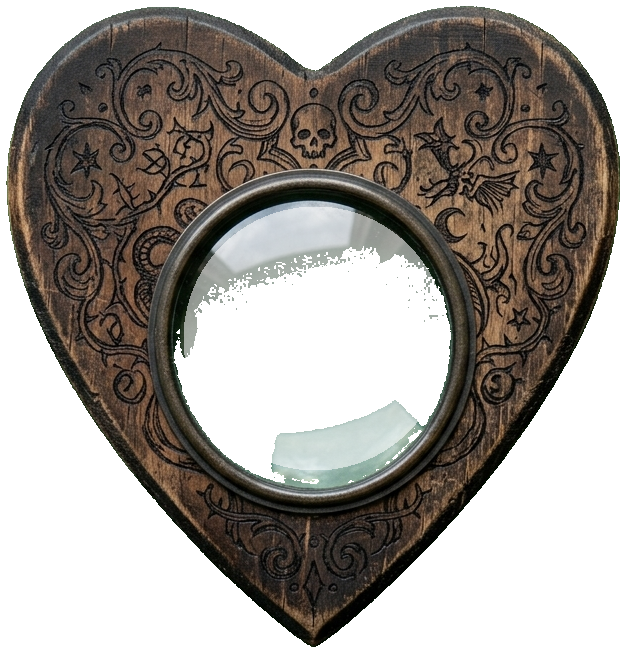
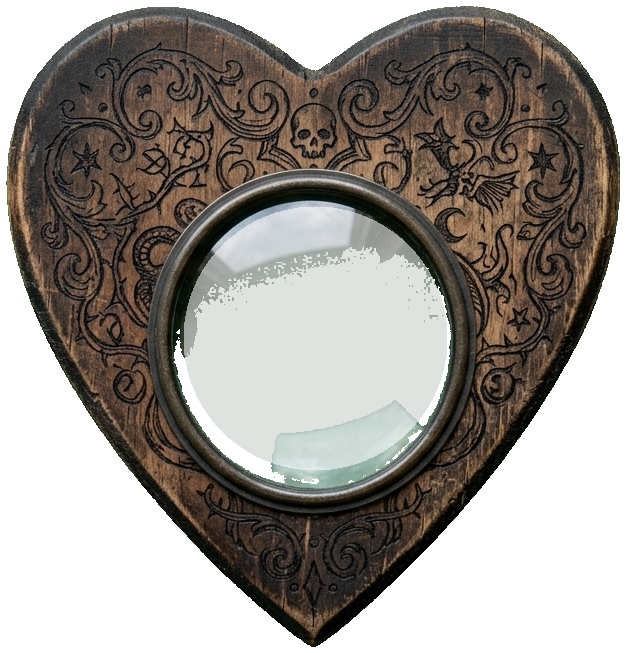
Seance board v2 (DESIGN 30): full board, wake-up dance, dead-still rest, tinted lens
DM notes applied:
- The heart never moves at rest - tremble and rotation wobble are gated
  to living phases only; start and end are frozen (verified: 60s of
  byte-identical transforms after the phrase).
- A phrase from idle WAKES UP: one very slow first stir (2.6s), then a
  circling dance, and only then the first mark.
- The lens is tinted glass now - the chroma-keyed remnants read as
  "broken green glass", so the processing paints the glass body a
  uniform faint sage under the kept reflections.

And the full board per the module: digits 1-0 on an inner bottom arc,
printed HELLO (top-center), YES / NO (flanking high), GOODBYE
(low-center) - all widget-drawn SVG with exact polar targets. A phrase
word that IS a printed word lands on it as a single stop instead of
being spelled. Verified: "HELLO 13 XE NO" plays as pre-still -> wake ->
dance -> HELLO whole -> 1 -> 3 -> X -> E -> NO whole -> frozen rest,
with the rest position matching computed coordinates to the pixel.

Ledgered per DM: spin the seance board off as a standalone module later.

Changed region(s): [[0.2732, 0.3675, 0.7284, 0.7044]]

diff --git a/scripts/seance.js b/scripts/seance.js
@@ -1,67 +1,106 @@
 import { MODULE_ID } from "./preset.js";
 import { isPhoneClient, isDisplayClient } from "./shell.js";
 
-// §30 Séance board (DM-idea 2026-07-26, for a Crooked Moon game — "might be useful for others").
-// A spirit-board overlay on the TV: the DM types a phrase on the panel; the planchette drifts
-// letter to letter — slow, a bit jerky — resting 2s on each, then returns to the center and
-// waits. Layering (the decision that makes it work): the TABLE ART carries no letters at all
-// (image models butcher radial text, and baked letters have unknowable coordinates) — the
-// widget draws the letter ring itself as SVG, so every glyph's angle is exact and the
-// planchette's see-through lens (chroma-keyed + punched in tools/process-planchette.ps1)
-// lands dead-on with the letter visible THROUGH the glass.
+// §30 Séance board (DM-idea 2026-07-26, for a Crooked Moon game — "might be useful for others";
+// flagged for a standalone-module spin-off later). A spirit-board overlay on the TV: the DM
+// types a phrase on the panel; the planchette wakes slowly, circles once (the little dance),
+// then drifts mark to mark — slow, a bit jerky — resting 2s on each, and returns to a DEAD
+// STILL center when done (the heart never moves at rest, DM 2026-07-27).
 //
-// Visibility: the display client and the DM's own (non-phone) client — table theatre, not a
-// phone feature. State rides fxActive.seance (effects.js syncFx calls seanceSync), so the TV
-// re-mounts after a reload mid-scene; phrases are fxOneShot broadcasts (id "seancePhrase").
+// The board (per the module's layout): A–Z on the outer ring, digits 1–0 on an inner bottom
+// arc, and four printed words — HELLO top-center, YES/NO flanking high, GOODBYE low-center.
+// A phrase word that IS one of the printed words lands on it as a single stop instead of
+// being spelled ("the spirits point").
+//
+// Layering (the decision that makes it work): the table art carries no glyphs at all — the
+// widget draws every mark as SVG, so every target's polar position is exact, and the
+// planchette's lens (chroma-keyed to tinted glass; tools/process-planchette.ps1) lands with
+// the mark visible THROUGH it. State rides fxActive.seance (effects.js syncFx → seanceSync);
+// phrases are fxOneShot broadcasts (id "seancePhrase").
 
-const BOARD_FRAC = 0.72;      // board size as a fraction of the smaller viewport side
-const LETTER_R = 0.60;        // letter ring radius as a fraction of half the board
+const LETTER_R = 0.60;        // outer ring radius as a fraction of half the board
+const DIGIT_R = 0.42;         // digits arc radius
 const PLANCHETTE_FRAC = 0.30; // planchette width as a fraction of the board
-// Lens center within the processed sprite (tools/process-planchette.ps1 output: 626x653,
-// lens at 315,338) — the point that must land on a glyph.
+// Lens center within the processed sprite (626x653, lens at 315,338) — the landing point.
 const LENS_X = 315 / 626, LENS_Y = 338 / 653;
 const HOLD_MS = 2000;
 
-let root = null;      // the overlay element, or null
-let planch = null;    // the planchette <img>
-let raf = 0;
-let queue = [];       // remaining letters of the current phrase (uppercase, " " = pause)
+const LETTERS = "ABCDEFGHIJKLMNOPQRSTUVWXYZ";
+const DIGITS = "1234567890";
+const D2R = Math.PI / 180;
+// Printed words — polar positions in board units (angle: 0=right, 90°=down, -90°=up).
+const WORDS = {
+  HELLO: { a: -90 * D2R, r: 0.36 },
+  YES: { a: -145 * D2R, r: 0.36 },
+  NO: { a: -35 * D2R, r: 0.36 },
+  GOODBYE: { a: 90 * D2R, r: 0.30 }
+};
+
+let root = null, planch = null, raf = 0;
+let queue = [];       // token objects: {ch} | {word} | {space} | {dance:1|2}
 let phase = "rest";   // rest | travel | hold | pause
-let phaseT = 0;       // ms elapsed in the current phase
-let lastT = 0;
-// Position in board polar coords: angle (rad) + radius (fraction of letter-ring radius).
+let phaseT = 0, lastT = 0;
+// Position in board polar coords: angle (rad) + radius in LETTER-ring units (1 = the A–Z ring).
 let cur = { a: -Math.PI / 2, r: 0.22 };
-let from = { ...cur };
-let to = { ...cur };
+let from = { ...cur }, to = { ...cur };
 let travelMs = 1200;
+let toIsRest = false;
+let lastKey = null;   // the mark we're currently holding on (double-letter detection)
 
 function eligible() {
   return !isPhoneClient() && (isDisplayClient() || game.user?.isGM);
 }
 
-const LETTERS = "ABCDEFGHIJKLMNOPQRSTUVWXYZ";
 function letterAngle(ch) {
   const i = LETTERS.indexOf(ch);
   return i < 0 ? null : -Math.PI / 2 + (i / 26) * Math.PI * 2; // A at the top, clockwise
 }
+function digitAngle(ch) {
+  const i = DIGITS.indexOf(ch);
+  return i < 0 ? null : (140 - i * (100 / 9)) * D2R; // 1 at bottom-left … 0 at bottom-right
+}
+// Target for a token, in {a, r-in-letter-ring-units} — null if the board has no such mark.
+function targetFor(tok) {
+  if (tok.word) { const w = WORDS[tok.word]; return { a: w.a, r: w.r / LETTER_R, key: tok.word }; }
+  if (tok.ch) {
+    const la = letterAngle(tok.ch);
+    if (la != null) return { a: la, r: 1, key: tok.ch };
+    const da = digitAngle(tok.ch);
+    if (da != null) return { a: da, r: DIGIT_R / LETTER_R, key: tok.ch };
+  }
+  return null;
+}
 
-// Deterministic per-index jitter so the ring looks hand-scratched but never reflows.
+// Deterministic per-index jitter so the marks look hand-scratched but never reflow.
 function jig(i, mag) { return Math.sin(i * 12.9898) * mag; }
 
 function boardHTML() {
   const glyphs = [...LETTERS].map((ch, i) => {
     const a = letterAngle(ch);
-    const deg = (a * 180) / Math.PI + 90 + jig(i, 5); // baseline follows the circle
+    const deg = (a / D2R) + 90 + jig(i, 5);
     const x = 50 + Math.cos(a) * LETTER_R * 50;
     const y = 50 + Math.sin(a) * LETTER_R * 50;
-    const size = 4.4 + jig(i + 7, 0.35);
-    return `<text x="${x}" y="${y}" transform="rotate(${deg} ${x} ${y})" font-size="${size}"
+    return `<text x="${x}" y="${y}" transform="rotate(${deg} ${x} ${y})" font-size="${4.4 + jig(i + 7, 0.35)}"
       text-anchor="middle" dominant-baseline="central">${ch}</text>`;
+  }).join("");
+  const digits = [...DIGITS].map((ch, i) => {
+    const a = digitAngle(ch);
+    const deg = (a / D2R) - 90 + jig(i + 31, 4); // upright-facing-center along the bottom arc
+    const x = 50 + Math.cos(a) * DIGIT_R * 50;
+    const y = 50 + Math.sin(a) * DIGIT_R * 50;
+    return `<text x="${x}" y="${y}" transform="rotate(${deg} ${x} ${y})" font-size="${3.5 + jig(i + 13, 0.25)}"
+      text-anchor="middle" dominant-baseline="central">${ch}</text>`;
+  }).join("");
+  const words = Object.entries(WORDS).map(([w, p], i) => {
+    const x = 50 + Math.cos(p.a) * p.r * 50;
+    const y = 50 + Math.sin(p.a) * p.r * 50;
+    return `<text x="${x}" y="${y}" transform="rotate(${jig(i + 51, 3)} ${x} ${y})" font-size="3.1"
+      letter-spacing="0.35" text-anchor="middle" dominant-baseline="central">${w}</text>`;
   }).join("");
   return `
     <div class="mc-seance-board">
       <img class="mc-seance-table" src="modules/${MODULE_ID}/art/seance-table.jpg" alt="">
-      <svg class="mc-seance-letters" viewBox="0 0 100 100">${glyphs}</svg>
+      <svg class="mc-seance-letters" viewBox="0 0 100 100">${glyphs}${digits}${words}</svg>
       <img class="mc-seance-planchette" src="modules/${MODULE_ID}/art/planchette.png" alt="">
     </div>`;
 }
@@ -75,7 +114,7 @@ export function seanceSync(on) {
     document.body.appendChild(root);
     planch = root.querySelector(".mc-seance-planchette");
     cur = { a: -Math.PI / 2, r: 0.22 }; from = { ...cur }; to = { ...cur };
-    phase = "rest"; queue = [];
+    phase = "rest"; queue = []; lastKey = null;
     lastT = performance.now();
     cancelAnimationFrame(raf);
     raf = requestAnimationFrame(tick);
@@ -88,45 +127,65 @@ export function seanceSync(on) {
 
 export function seancePhrase(text) {
   if (!root) return; // board not up (or this client doesn't show it)
-  const clean = String(text ?? "").toUpperCase().replace(/[^A-Z ]/g, "").replace(/ +/g, " ").trim().slice(0, 120);
+  const clean = String(text ?? "").toUpperCase().replace(/[^A-Z0-9 ]/g, "").replace(/ +/g, " ").trim().slice(0, 120);
   if (!clean) return;
-  queue.push(...clean.split(""));
-  if (phase === "rest") nextTarget();
+  const wasIdle = phase === "rest" && !queue.length;
+  for (const word of clean.split(" ")) {
+    if (WORDS[word]) queue.push({ word });
+    else for (const ch of word) queue.push({ ch });
+    queue.push({ space: true });
+  }
+  queue.pop(); // no trailing beat
+  if (wasIdle) {
+    // The wake-up (DM 2026-07-27): from dead-still, start SLOWLY, then a circling dance,
+    // and only then head for the first mark.
+    queue.unshift({ dance: 1 }, { dance: 2 });
+    nextTarget();
+  } else if (phase === "rest") nextTarget();
 }
 
 function nextTarget() {
-  const ch = queue.shift();
-  if (ch === undefined) {
-    // phrase done — drift home and wait
+  const tok = queue.shift();
+  if (tok === undefined) {
     from = { ...cur }; to = { a: cur.a, r: 0.22 };
-    travelMs = 1600; phase = "travel"; phaseT = 0; toIsRest = true;
+    travelMs = 1800; phase = "travel"; phaseT = 0; toIsRest = true; lastKey = null;
     return;
   }
   toIsRest = false;
-  if (ch === " ") {
-    // a beat between words: wander toward the middle
+  if (tok.dance === 1) { // slow first stir — barely more than a shiver, gathering itself
     from = { ...cur };
-    to = { a: cur.a + 0.6, r: 0.45 };
-    travelMs = 1100; phase = "pause"; phaseT = 0;
+    to = { a: cur.a + 1.1, r: 0.45 };
+    travelMs = 2600; phase = "pause"; phaseT = 0;
     return;
   }
-  const a = letterAngle(ch);
-  // Same letter again (double letters): swing away first so the return reads as a second tap.
-  const dSame = Math.abs(angDiff(cur.a, a));
-  if (cur.r > 0.9 && dSame < 0.05) {
-    queue.unshift(ch);
+  if (tok.dance === 2) { // the little circle before business begins
     from = { ...cur };
-    to = { a: cur.a + (Math.random() < 0.5 ? 0.45 : -0.45), r: 0.8 };
-    travelMs = 900; phase = "pause"; phaseT = 0;
+    to = { a: cur.a + 2.4, r: 0.68 };
+    travelMs = 1600; phase = "pause"; phaseT = 0;
+    return;
+  }
+  if (tok.space) {
+    from = { ...cur };
+    to = { a: cur.a + 0.6, r: 0.45 };
+    travelMs = 1100; phase = "pause"; phaseT = 0; lastKey = null;
+    return;
+  }
+  const t = targetFor(tok);
+  if (!t) return nextTarget(); // mark not on the board — skip
+  // Same mark again (double letters): swing away first so the return reads as a second tap.
+  if (lastKey === t.key) {
+    queue.unshift(tok);
+    from = { ...cur };
+    to = { a: cur.a + (Math.random() < 0.5 ? 0.45 : -0.45), r: Math.max(0.3, cur.r - 0.2) };
+    travelMs = 900; phase = "pause"; phaseT = 0; lastKey = null;
     return;
   }
   from = { ...cur };
-  to = { a, r: 1 };
-  const dist = Math.abs(angDiff(from.a, a)) + Math.abs(to.r - from.r);
+  to = { a: t.a, r: t.r };
+  const dist = Math.abs(angDiff(from.a, t.a)) + Math.abs(t.r - from.r);
   travelMs = 900 + Math.min(1, dist / Math.PI) * 1700; // farther = slower, never a snap
-  phase = "travel"; phaseT = 0;
+  phase = "travel"; phaseT = 0; lastKey = t.key;
 }
-let toIsRest = false;
 
 function angDiff(a, b) {
   let d = (b - a) % (Math.PI * 2);
@@ -150,7 +209,7 @@ function tick(t) {
     if (phaseT >= travelMs) {
       cur = { a: to.a, r: to.r };
       if (phase === "pause") { phase = "travel"; nextTarget(); }
-      else if (toIsRest) phase = "rest";
+      else if (toIsRest) phase = "rest"; // …and the heart goes STILL
       else { phase = "hold"; phaseT = 0; }
     }
   } else if (phase === "hold") {
@@ -165,15 +224,16 @@ function place(t = 0) {
   const S = board.clientWidth;
   if (!S) return;
   const R = (S / 2) * LETTER_R;
-  // Idle tremble — the planchette is never perfectly still.
-  const wob = phase === "hold" || phase === "rest" ? 0.0035 : 0.006;
+  // Tremble only while ALIVE — at rest the heart is dead still (DM 2026-07-27).
+  const resting = phase === "rest";
+  const wob = resting ? 0 : phase === "hold" ? 0.0035 : 0.006;
   const nx = Math.sin(t / 97) * S * wob, ny = Math.cos(t / 83) * S * wob;
   const px = S / 2 + Math.cos(cur.a) * R * cur.r + nx;
   const py = S / 2 + Math.sin(cur.a) * R * cur.r + ny;
   const w = S * PLANCHETTE_FRAC;
   const h = w * (653 / 626);
-  // The lens lands on the point; the tip points outward (sprite's tip is +y/down).
-  const rotDeg = (cur.a * 180) / Math.PI - 90 + Math.sin(t / 151) * 2.5;
+  // The lens lands on the mark; the tip points outward (sprite's tip is +y/down).
+  const rotDeg = (cur.a / D2R) - 90 + (resting ? 0 : Math.sin(t / 151) * 2.5);
   planch.style.width = `${w}px`;
   planch.style.transformOrigin = `${LENS_X * 100}% ${LENS_Y * 100}%`;
   planch.style.transform = `translate(${px - w * LENS_X}px, ${py - h * LENS_Y}px) rotate(${rotDeg}deg)`;

diff --git a/scripts/dm-panel.js b/scripts/dm-panel.js
@@ -332,7 +332,7 @@ function seanceBody() {
   return `
     <button class="mc-fx-btn ${on ? "mc-on" : ""}" data-fx="seance" title="${FX_DEFS.seance.hint}" style="width:100%"><i class="fas ${FX_DEFS.seance.icon}"></i><span>Spirit Board</span></button>
     <div class="mc-fx-voicerow">
-      <input type="text" class="mc-fx-voice" data-seance-text maxlength="120" placeholder="What the spirits say… (letters only)" value="${foundry.utils.escapeHTML(seanceDraft)}" ${on ? "" : "disabled"}>
+      <input type="text" class="mc-fx-voice" data-seance-text maxlength="120" placeholder="What the spirits say… (YES, NO, HELLO, GOODBYE land whole)" value="${foundry.utils.escapeHTML(seanceDraft)}" ${on ? "" : "disabled"}>
       <button class="mc-fx-btn mc-fx-voicebtn" data-seance-send title="The planchette spells it out" ${on ? "" : "disabled"}><i class="fas fa-hand-point-up"></i></button>
     </div>`;
 }
@@ -3066,8 +3066,8 @@ async function onClick(ev) {
   if (fxpBtn) { await dmToggleFxFor(fxpBtn.dataset.fxp, fxPlayer); return render(); }
   // §30 séance: broadcast the phrase; the TV's planchette does the talking.
   if (ev.target.closest("[data-seance-send]")) {
-    const words = seanceDraft.replace(/[^A-Za-z ]/g, "").trim();
-    if (!words) { ui.notifications.warn("Write what the spirits say — letters only."); return; }
+    const words = seanceDraft.replace(/[^A-Za-z0-9 ]/g, "").trim();
+    if (!words) { ui.notifications.warn("Write what the spirits say — letters and numbers only."); return; }
     dmFireFx("seancePhrase", { text: words });
     seanceDraft = "";
     return render();

diff --git a/DESIGN.md b/DESIGN.md
@@ -2546,3 +2546,17 @@ image edge.
 **Release note:** the module.zip build must now include `art/` (next release).
 **Open:** creaking-wood sound on movement (procedural, §26.2-style) if the DM wants it; a
 "clear the board" wipe animation; number ring (explicitly kept out — "no other layer").
+
+**§30 v2 (DM notes 2026-07-27):** the heart is DEAD STILL at rest — no tremble, no rotation
+wobble at start or end (tremble only while alive). A phrase from idle begins with a WAKE-UP:
+one very slow first stir (2.6s, barely more than a shiver) then a circling dance (the "little
+dance") before the first mark. The lens is TINTED GLASS now, not raw transparency — the keyed
+remnants read as "broken green glass"; process-planchette.ps1 paints the glass body a uniform
+faint sage (96,118,96 @ α52) under the kept reflections. FULL BOARD per the module: digits 1–0
+on an inner bottom arc (r 0.42), printed words HELLO (top-center), YES/NO (flanking high),
+GOODBYE (low-center) — a phrase word that IS a printed word lands on it as a single stop
+instead of being spelled. Verified end-to-end ("HELLO 13 XE NO"): pre-still → wake → dance →
+HELLO whole → 1 → 3 → X → E → NO whole → center rest, frozen (60s of identical transforms).
+**Backlog (DM): spin the séance board off as a standalone module** — it has no mobile-command
+dependency in principle (board + planchette + a GM input; the fxActive/socket plumbing would
+need a tiny self-contained equivalent).
